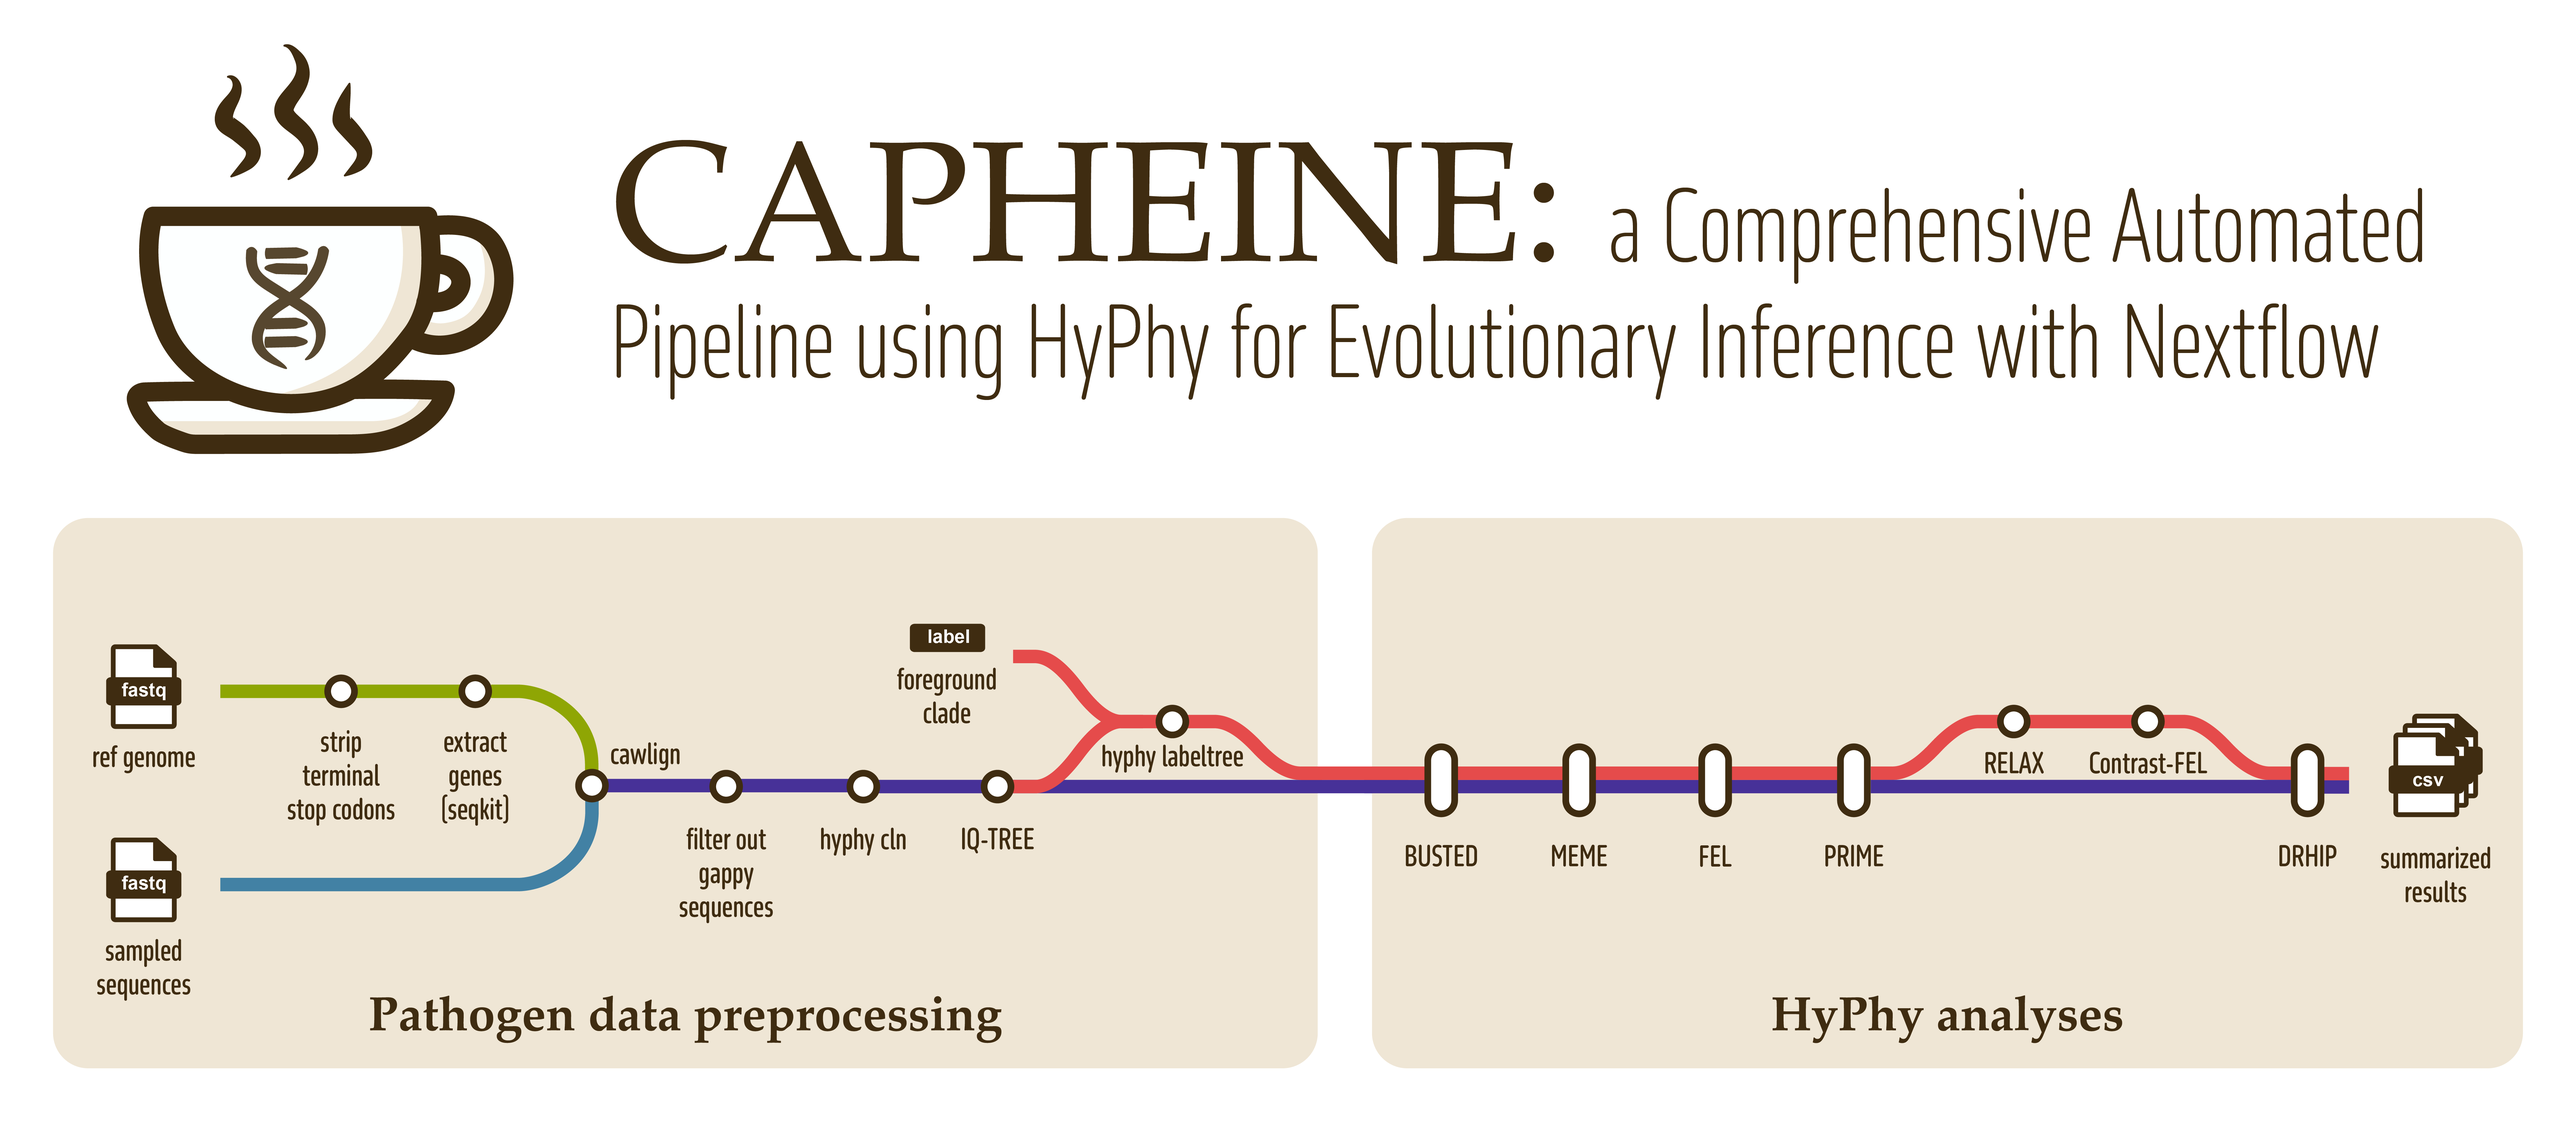
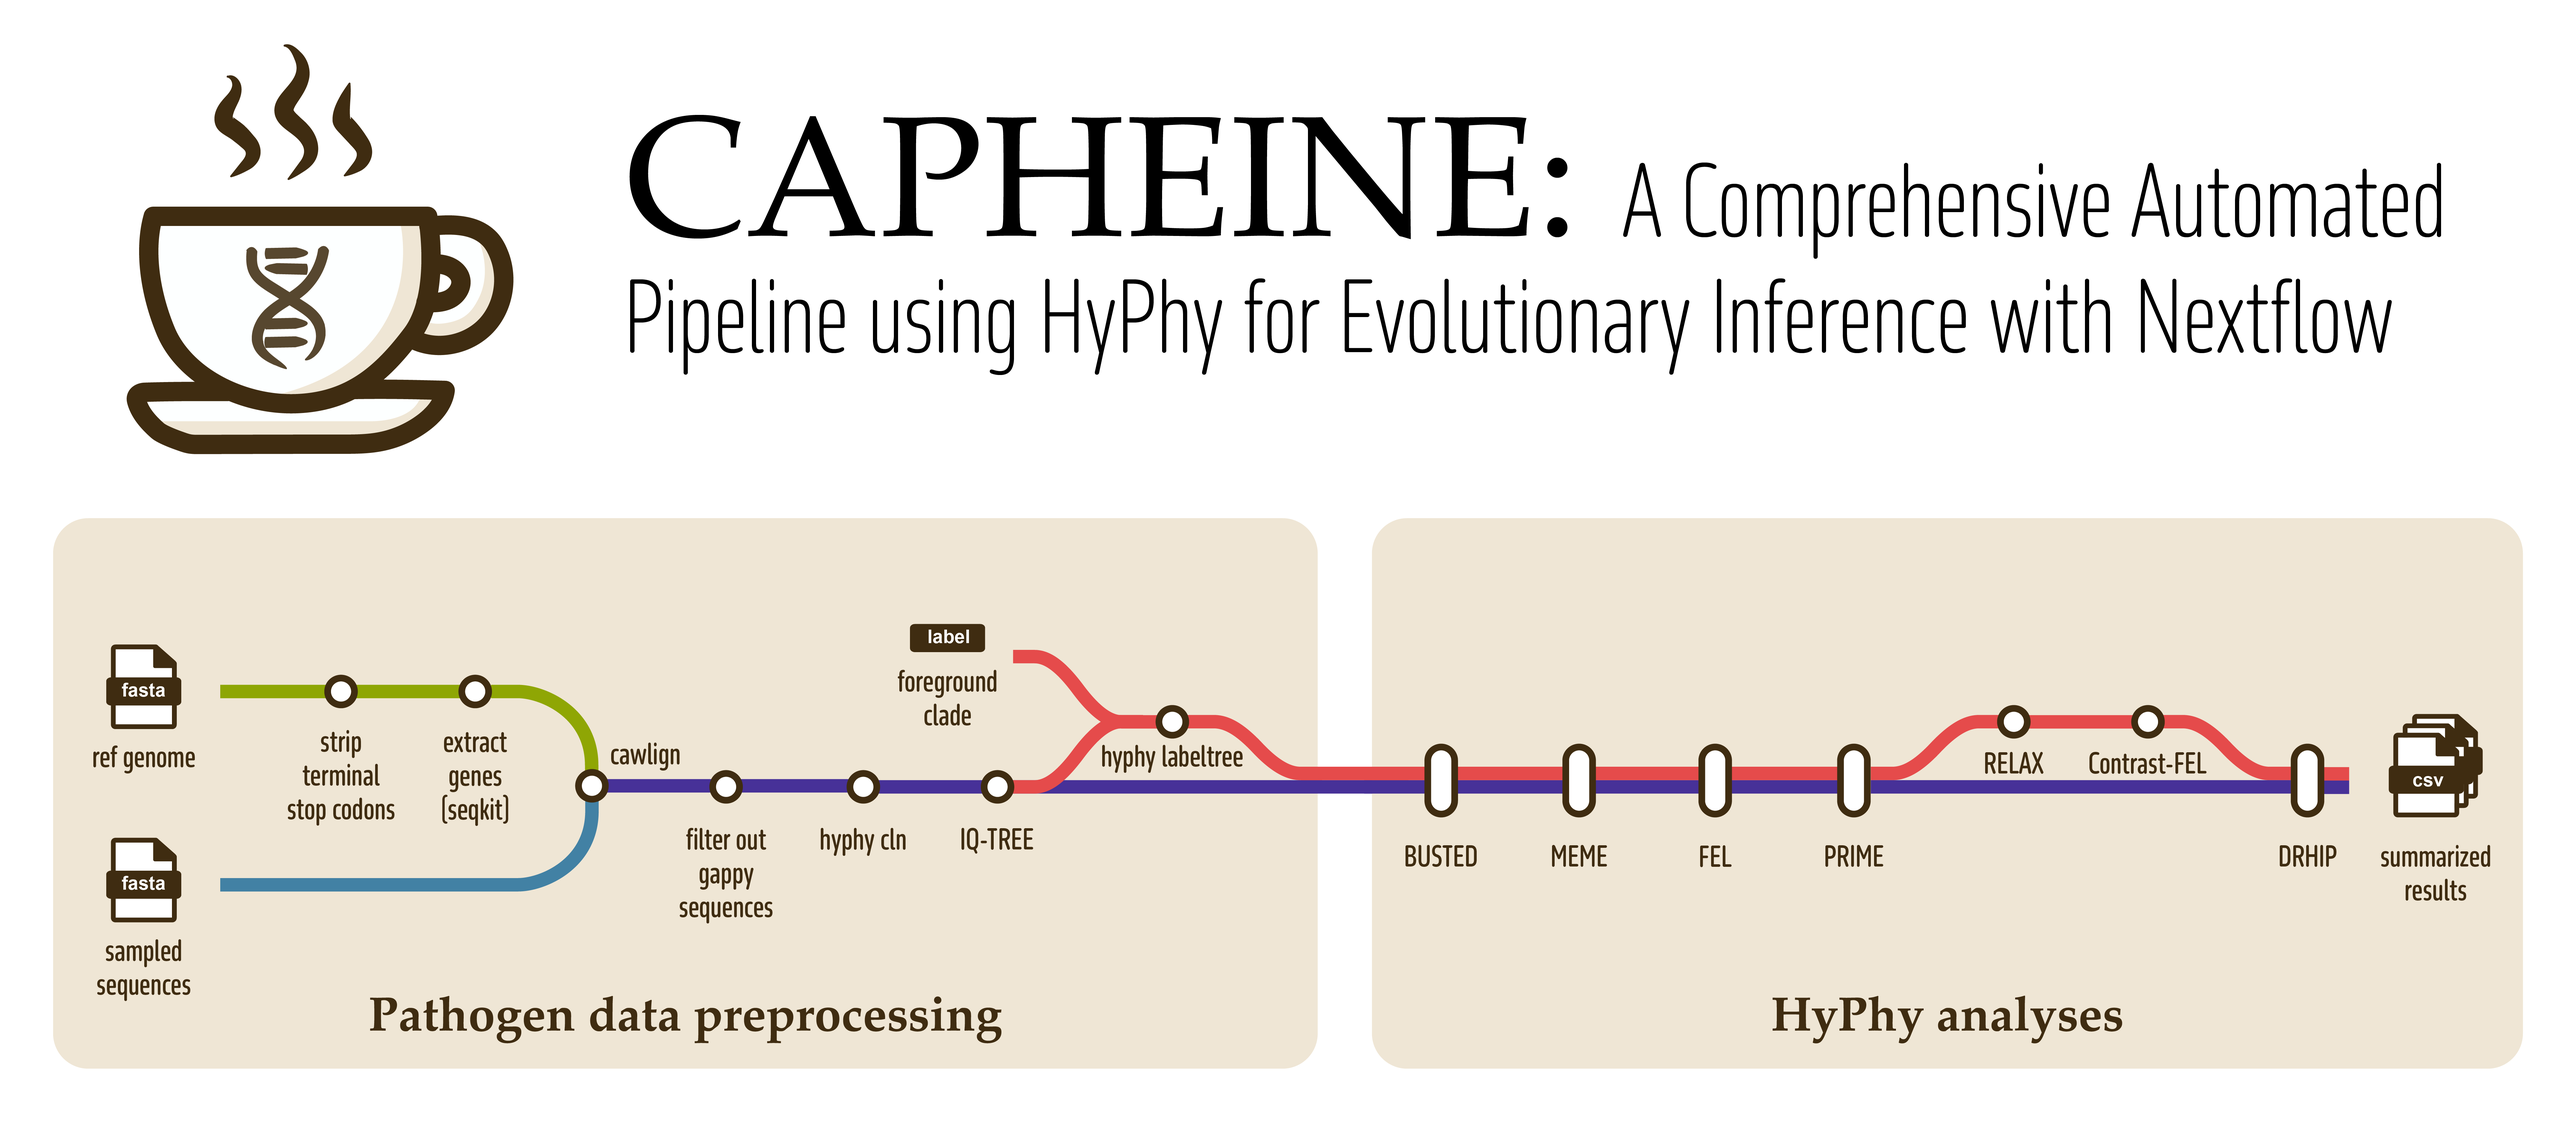
readme updates, replaced "fastq" with "fasta" in the pipeline image

Changed region(s): [[0.2188, 0.0936, 0.9688, 0.3434], [0.9375, 0.7491, 0.9688, 0.8116], [0.3438, 0.5931, 0.375, 0.6555]]

diff --git a/README.md b/README.md
@@ -49,7 +49,9 @@ The main input parameters for the CAPHEINE pipeline are:
 | `--reference_genes` | Path to FASTA file of gene reference sequences                                                                                                                         | Yes      |
 | `--unaligned_seqs`  | Path to FASTA file of unaligned DNA sequences                                                                                                                          | Yes      |
 | `--outdir`          | Output directory for results                                                                                                                                           | Yes      |
-| `--test_branches`   | Branch selection for HyPhy site-wise analyses. Use 'internal' to test only internal branches, or 'all' to test all branches. If unset, HyPhy defaults to all branches. | No       |
+| `--test_branches`   | Branch selection for HyPhy core analyses (BUSTED, MEME, FEL, PRIME). Use 'internal' to test only internal branches, or 'all' to test all branches. If unset, HyPhy defaults to all branches. | No       |
+| `--foreground_list` | Path to a text file with a newline-separated list of foreground taxa. Only one of `foreground_list` or `foreground_regexp` should be provided per row. | No       |
+| `--foreground_regexp` | Regular expression to match foreground taxa. Only one of `foreground_list` or `foreground_regexp` should be provided per row. | No       |
 | `--email`           | Email address for completion summary                                                                                                                                   | No       |
 | `--multiqc_title`   | Title for the MultiQC report                                                                                                                                           | No       |
 | `--validate_params` | Boolean, validate parameters against the schema at runtime (default: true)                                                                                             | No       |
@@ -77,8 +79,8 @@ Where:
 
 You can also provide additional parameters:
 
+- `test_branches`: (Optional) Branch selection for HyPhy core analyses (BUSTED, MEME, FEL, PRIME). Use `internal` to test only internal branches, or `all` to test all branches. If unset, no flag is passed and HyPhy defaults to all branches.
 - `foreground_list`: (Optional) Path to a text file with a newline-separated list of foreground taxa.
-- `test_branches`: (Optional) Branch selection for HyPhy site-wise analyses. Use `internal` to test only internal branches, or `all` to test all branches. If unset, no flag is passed and HyPhy defaults to all branches.
 - `foreground_regexp`: (Optional) Regular expression to match foreground taxa.
 
 Only one of `foreground_list` or `foreground_regexp` should be provided per row.
